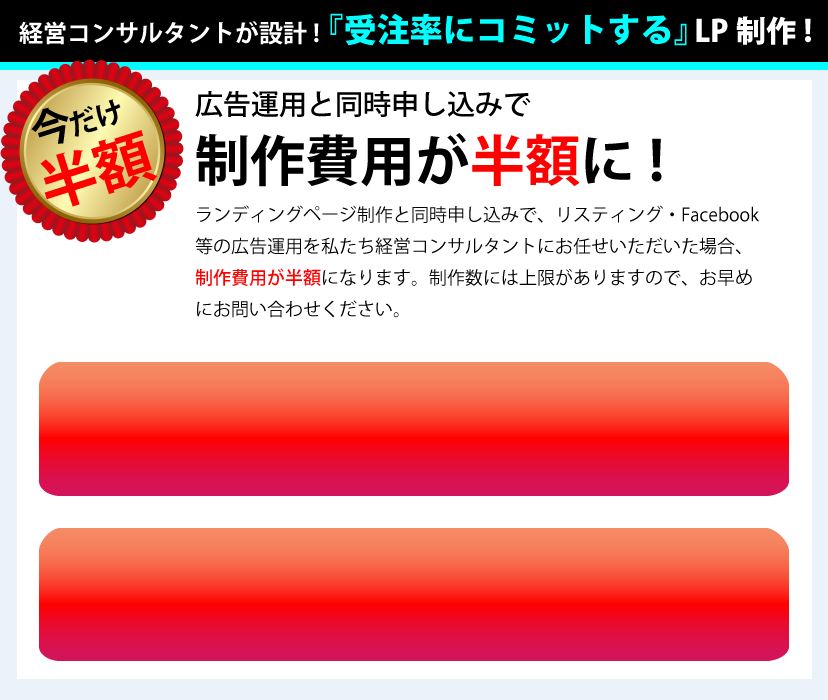
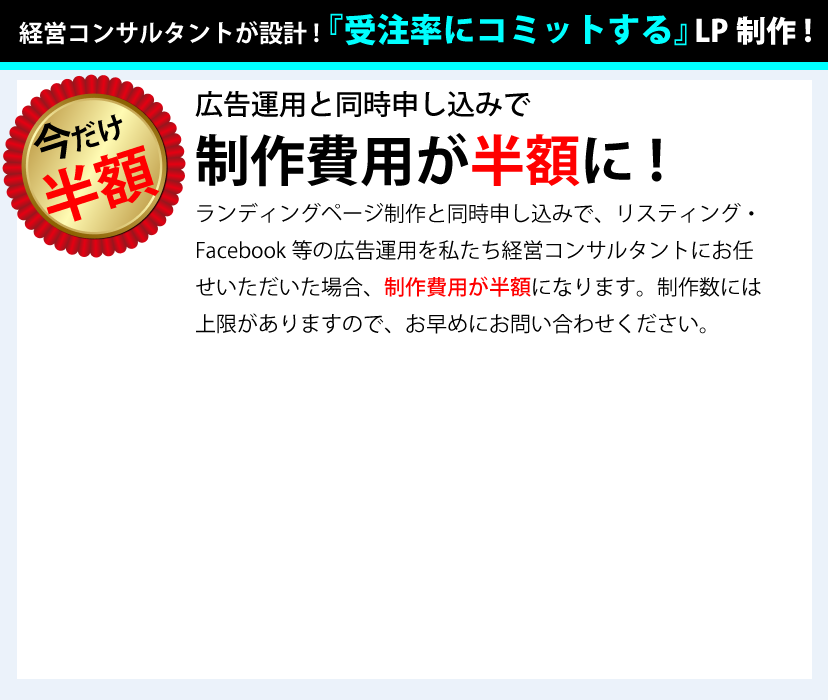
エグジットボタンの大きさ変更

diff --git a/sass/_base.scss b/sass/_base.scss
@@ -640,14 +640,15 @@ hr {
     height: 500px;
   }
   .cb-btn-1 {
-    bottom: 29%;
-    right: 9%;
-    width: 82%;
+    bottom: 30%;
+    right: 9.3%;
+    width: 80%;
   }
   .cb-btn-2 {
-    bottom: 6%;
-    right: 9%;
-    width: 82%;
+    bottom: 7%;
+    right: 9.3%;
+    width: 80%;
+}
   }
   .ms-heading {
     font-size: 1.8rem;

diff --git a/newlp.php b/newlp.php
@@ -124,7 +124,7 @@
           <div class="row">
             <div class="col-xs-12 top-buffer-padding bottom-buffer-padding purewhitebg">
               <div class="row">
-                <div class="col-xs-12 col-sm-2 align-center xs-b-buffer">
+                <div class="col-xs-4 col-sm-2 align-center xs-b-buffer">
                   <img src="<?php bloginfo('template_directory');?>/images/human-grow-logo.png" alt="ヒューマングローロゴ" class="worksimg" />
                 </div>
                 <div class="col-xs-12 col-sm-10">
@@ -612,7 +612,11 @@
         </div>
         <div class="row">
           <div class="col-xs-12 col-sm-12 margin-t80">
+            <?php if (is_mobile()):?>
+              <img src="<?php bloginfo('template_directory');?>/images/new_fee_sp.png" alt="料金表" class="worksimg" />
+            <?php else:?>
             <img src="<?php bloginfo('template_directory');?>/images/new_fee.png" alt="料金表" class="worksimg" />
+          <?php endif;?>
           </div>
         </div>
       </div>
